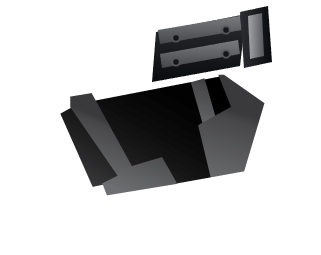
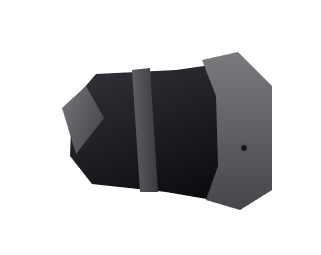
Modules menu as labelled groups like mode select; whole new torso per body
The Modules menu lists every group under its label in one list, as on the
mode screen; it scrolls to keep the selection (and its group's label) in
view, and LB / RB or left / right jump between groups. The bodies' torsos
are drawn whole now, each with its own silhouette in the original palette,
instead of add-ons over the stock torso, which stays untouched (Core,
Classic); the art sets the torso's size, the build only the limbs.

Changed region(s): [[0.1869, 0.0275, 0.8723, 0.8235]]

diff --git a/web/src/scenes/ModulesScene.ts b/web/src/scenes/ModulesScene.ts
@@ -11,16 +11,16 @@ import {
 } from '../game/Modules';
 import type { SpriterData } from '../spriter/Spriter';
 import { body, heading, HeadingText, NEON } from '../ui/Type';
-import { drawGlow, drawPlate, drawStrip, footer, frameTitle, kubeBackdrop, METAL_EDGE, PlateButton, shutter } from '../ui/Plate';
+import { drawPlate, drawStrip, footer, frameTitle, kubeBackdrop, PlateButton, shutter } from '../ui/Plate';
 import { uiSound } from '../audio/Sounds';
 import { MenuInput } from './MenuInput';
 
-const BTN_X = 260;
-const BTN_TOP = 238;
+const BTN_X = 280;
 const BTN_STEP = 44;
-/** The group tabs over the list. */
-const TAB_Y = 186;
-const TAB_W = 90;
+/** A group's label row above its modules (as on the mode screen). */
+const LABEL_STEP = 40;
+/** The window the list scrolls in. */
+const LIST = { top: 160, bottom: 700, left: 60, width: 460 };
 /** The panel describing the selected module, on the right. */
 const PANEL = { x: 500, y: 140, w: 732, h: 570 };
 /** The demo stage: its floor, and its ends (the Kubot runs between them). */
@@ -37,7 +37,7 @@ const BARS: { key: keyof BodyStats; label: string }[] = [
 ];
 /** How long the demo Kubot waits on the ground between jumps (ms). */
 const DEMO_REST = 450;
-/** Shoulders in the standard gamepad mapping: the previous / next group. */
+/** Shoulders in the standard gamepad mapping: the first module of the previous / next group. */
 const PAD = { L: 4, R: 5 } as const;
 
 /** Every group's modules, in menu order. */
@@ -50,21 +50,27 @@ const LISTS: Record<ModuleKind, ModuleInfo[]> = {
 
 /**
  * The Modules menu (title): Kubotz are modular, and their modules come in
- * groups (helmets, bodies, weapons, feet), one tab each. The group's modules
- * run down the left; the selected one is explained on the right. A body shows
+ * groups (helmets, bodies, weapons, feet), listed down the left under their
+ * labels as on the mode screen (the list scrolls; the selected module stays
+ * in view, with its group's label when it is the first of the group). The
+ * selected one is explained on the right. A body shows
  * its numbers as bars, a debug line naming whose numbers they are, and a
  * Kubot running and jumping with the body's own speeds and gravity (at half
  * size); the others show a Kubot wearing or holding the module. "Try it"
  * starts the sandbox with a base Kubot on only that module; quitting the
  * sandbox comes back here.
- * D-pad / stick up and down choose, left / right or LB / RB change the
- * group, A tries it, B goes back to the title.
+ * D-pad / stick up and down choose, left / right or LB / RB jump to the
+ * previous / next group, A tries it, B goes back to the title.
  */
 export class ModulesScene extends Phaser.Scene {
   private kind: ModuleKind = 'body';
   private selected = 0;
-  private items: PlateButton[] = [];
-  private tabs: { kind: ModuleKind; g: Phaser.GameObjects.Graphics; glow: Phaser.GameObjects.Graphics; label: Phaser.GameObjects.Text; x: number }[] = [];
+  /** Every module's button, in list order, with its group, index in the group and y in the list. */
+  private rows: { kind: ModuleKind; index: number; y: number; button: PlateButton }[] = [];
+  /** The first row of each group, and its label's y in the list. */
+  private labels = new Map<ModuleKind, number>();
+  private list!: Phaser.GameObjects.Container;
+  private listHeight = 0;
   private leaving = false;
   private menu!: MenuInput;
   private blurb!: Phaser.GameObjects.Text;
@@ -86,8 +92,8 @@ export class ModulesScene extends Phaser.Scene {
   constructor() { super('Modules'); }
 
   create(): void {
-    this.items = [];
-    this.tabs = [];
+    this.rows = [];
+    this.labels.clear();
     this.barLabels = [];
     this.leaving = false;
     this.padDown.clear();
@@ -123,25 +129,14 @@ export class ModulesScene extends Phaser.Scene {
     tryIt.setSelected(true);
     tryIt.on('pointerdown', () => this.tryModule());
 
-    // The group tabs.
-    const left = BTN_X - 170;
-    MODULE_KINDS.forEach((k, i) => {
-      const x = left + i * (TAB_W + 6);
-      const glow = this.add.graphics().setBlendMode(Phaser.BlendModes.ADD);
-      const g = this.add.graphics();
-      const label = this.add.text(x + TAB_W / 2, TAB_Y, k.label.toUpperCase(), body(14, { fontStyle: 'italic 800' })).setOrigin(0.5)
-        .setInteractive({ useHandCursor: true }).on('pointerdown', () => this.showKind(k.kind));
-      this.tabs.push({ kind: k.kind, g, glow, label, x });
-    });
-    this.add.text(left, TAB_Y - 30, 'LB / RB', body(11, { fontStyle: '700', color: '#6f93b3' }));
-
+    this.makeList();
     const saved = this.registry.get('modules') as { kind: ModuleKind; index: number } | undefined;
-    this.showKind(saved?.kind ?? 'body', saved?.index ?? 0);
+    this.select(saved?.kind ?? 'body', saved?.index ?? 0, true);
 
-    footer(this, ['D-pad / stick ↑↓ choose · ◀ ▶ or LB / RB group · A (Enter) try it in the sandbox · B (Esc) back']);
+    footer(this, ['D-pad / stick ↑↓ choose · ◀ ▶ or LB / RB previous / next group · A (Enter) try it in the sandbox · B (Esc) back']);
     this.menu = new MenuInput({
       move: (dx, dy) => {
-        if (dy) this.select((this.selected + dy + this.list.length) % this.list.length);
+        if (dy) this.step(dy);
         else if (dx) this.stepKind(dx);
       },
       confirm: () => this.tryModule(),
@@ -154,48 +149,81 @@ export class ModulesScene extends Phaser.Scene {
     kb.on('keydown-E', () => this.stepKind(1));
   }
 
-  private get list(): ModuleInfo[] { return LISTS[this.kind]; }
-  private get module(): ModuleInfo { return this.list[this.selected]; }
-  /** The selected body, when the group is the bodies. */
+  private get module(): ModuleInfo { return LISTS[this.kind][this.selected]; }
+  /** The selected body, when it is a body. */
   private get bodyModule(): BodyModule | null { return this.kind === 'body' ? this.module as BodyModule : null; }
 
+  /** Every group under its label, in one list masked to the left column (it scrolls). */
+  private makeList(): void {
+    this.list = this.add.container(0, LIST.top);
+    let y = 0;
+    for (const k of MODULE_KINDS) {
+      this.labels.set(k.kind, y);
+      this.list.add(this.add.text(BTN_X - 190, y + 22, k.label.toUpperCase().split('').join(' '), body(13, { fontStyle: '700', color: '#9fc4e4' })).setOrigin(0, 0.5));
+      y += LABEL_STEP;
+      LISTS[k.kind].forEach((m, index) => {
+        const button = new PlateButton(this, BTN_X, y + BTN_STEP / 2, 360, 38, m.name, { size: 21 });
+        // (Buttons scrolled out of the window still get the pointer: ignore them.)
+        button.on('pointerover', () => { if (this.inView(button)) this.select(k.kind, index); });
+        button.on('pointerdown', () => { if (this.inView(button)) { this.select(k.kind, index); this.tryModule(); } });
+        this.list.add(button);
+        this.rows.push({ kind: k.kind, index, y, button });
+        y += BTN_STEP;
+      });
+    }
+    this.listHeight = y;
+    const shape = this.make.graphics({}).fillRect(LIST.left, LIST.top, LIST.width, LIST.bottom - LIST.top);
+    this.list.setMask(shape.createGeometryMask());
+    this.input.on('wheel', (_p: unknown, _o: unknown, _dx: number, dy: number) => { if (!this.leaving) this.step(Math.sign(dy)); });
+  }
+
+  private inView(b: PlateButton): boolean {
+    const y = this.list.y + b.y;
+    return y > LIST.top && y < LIST.bottom;
+  }
+
+  /** Up / down through the whole list, across groups (wraps round). */
+  private step(d: number): void {
+    const at = this.rows.findIndex((r) => r.kind === this.kind && r.index === this.selected);
+    const r = this.rows[(at + d + this.rows.length) % this.rows.length];
+    this.select(r.kind, r.index);
+  }
+
+  /** The first module of the previous / next group. */
   private stepKind(d: number): void {
     const at = MODULE_KINDS.findIndex((k) => k.kind === this.kind);
-    this.showKind(MODULE_KINDS[(at + d + MODULE_KINDS.length) % MODULE_KINDS.length].kind);
-    uiSound(this, 'move');
+    this.select(MODULE_KINDS[(at + d + MODULE_KINDS.length) % MODULE_KINDS.length].kind, 0);
   }
 
-  /** A group's modules down the left, the first (or `index`) selected. */
-  private showKind(kind: ModuleKind, index = 0): void {
+  /** Scrolls so the selected row shows, with its group's label when it is the group's first. */
+  private scrollTo(kind: ModuleKind, index: number, instant: boolean): void {
+    const row = this.rows.find((r) => r.kind === kind && r.index === index)!;
+    const top = index === 0 ? this.labels.get(kind)! : row.y;
+    const bottom = row.y + BTN_STEP;
+    const view = LIST.bottom - LIST.top;
+    let scroll = LIST.top - this.list.y; // the list's y showing at the window's top
+    if (top < scroll) scroll = top;
+    else if (bottom > scroll + view) scroll = bottom - view;
+    scroll = Phaser.Math.Clamp(scroll, 0, Math.max(0, this.listHeight - view));
+    this.tweens.killTweensOf(this.list);
+    if (instant) this.list.y = LIST.top - scroll;
+    else this.tweens.add({ targets: this.list, y: LIST.top - scroll, duration: 140, ease: 'Quad.out' });
+  }
+
+  private select(kind: ModuleKind, i: number, instant = false): void {
+    i = Phaser.Math.Clamp(i, 0, LISTS[kind].length - 1);
+    if (kind === this.kind && i === this.selected && !instant) return;
+    const kindChanged = kind !== this.kind || instant;
     this.kind = kind;
-    for (const b of this.items) b.destroy();
-    this.items = this.list.map((m, i) => {
-      const b = new PlateButton(this, BTN_X, BTN_TOP + i * BTN_STEP, 340, 38, m.name, { size: 21 });
-      b.on('pointerover', () => this.select(i));
-      b.on('pointerdown', () => { this.select(i); this.tryModule(); });
-      return b;
-    });
-    for (const t of this.tabs) {
-      const on = t.kind === kind;
-      t.g.clear();
-      t.glow.clear();
-      if (on) drawGlow(t.glow, t.x, TAB_Y - 16, TAB_W, 32, { cut: 8 });
-      drawPlate(t.g, t.x, TAB_Y - 16, TAB_W, 32, { cut: 8, alpha: on ? 0.95 : 0.6, edge: on ? NEON : METAL_EDGE });
-      t.label.setColor(on ? '#bfe9ff' : '#8fb6d8');
-    }
-    this.blurb.setText(MODULE_KINDS.find((k) => k.kind === kind)!.blurb);
-    const isBody = kind === 'body';
-    for (const o of [this.inspired, this.debug, this.bars, ...this.barLabels]) o.setVisible(isBody);
-    this.selected = -1;
-    this.select(Math.min(index, this.list.length - 1));
-  }
-
-  private select(i: number): void {
-    if (i === this.selected) return;
     this.selected = i;
-    this.items.forEach((t, j) => t.setSelected(j === i));
+    for (const r of this.rows) r.button.setSelected(r.kind === kind && r.index === i);
+    this.scrollTo(kind, i, instant);
+    if (kindChanged) {
+      this.blurb.setText(MODULE_KINDS.find((k) => k.kind === kind)!.blurb);
+      for (const o of [this.inspired, this.debug, this.bars, ...this.barLabels]) o.setVisible(kind === 'body');
+    }
     const m = this.module;
-    this.registry.set('modules', { kind: this.kind, index: i });
+    this.registry.set('modules', { kind, index: i });
     this.title.setText(m.name);
     this.tagline.setText(m.tagline);
     this.details.setText(m.details.map((d) => `▸  ${d}`).join('\n'));
@@ -227,7 +255,7 @@ export class ModulesScene extends Phaser.Scene {
     else this.standStill(dt);
   }
 
-  /** LB / RB on any pad: the previous / next group. */
+  /** LB / RB on any pad: the first module of the previous / next group. */
   private pollShoulders(): void {
     for (const p of this.input.gamepad?.gamepads ?? []) {
       if (!p?.connected) continue;

diff --git a/web/tools/bodies/variants.ts b/web/tools/bodies/variants.ts
@@ -26,45 +26,58 @@ const black = (p: Pt[], dir = 60) => steel(p, { from: '#2c2e33', to: '#0a0b0e', 
 const bolt = (x: number, y: number, r = 4.5) =>
   `<circle cx="${x}" cy="${y}" r="${r}" fill="#55565a"/><circle cx="${x}" cy="${y}" r="${r * 0.62}" fill="#141518"/>`;
 
+/**
+ * Each body module's torso, drawn whole (not over the original): its own
+ * silhouette, still covering the joints where the original sits (neck about
+ * x 20-40, front shoulder about (104, 96), hips x 170-205 across y 60-125).
+ */
 export const VARIANTS: Record<string, Variant> = {
-  // Heavy armour: a thick slab down the back, a chest plate and a shoulder guard, bolted on.
-  bulwark: {
-    back: black([[16, 50], [168, 16], [180, -30], [20, 6]], 80)
-      + steel([[24, 4], [176, -26], [180, -14], [26, 16]], { dir: 100 })
-      + steel([[30, 26], [170, -2], [172, 6], [32, 34]], { from: '#5c5d61', to: '#3a3b3f', dir: 100 }),
-    front: steel([[44, 116], [190, 92], [200, 132], [56, 166]], { from: '#808184', to: '#404145', dir: 80 })
-      + black([[60, 146], [188, 122], [192, 134], [64, 158]], 0)
-      + bolt(80, 136) + bolt(172, 114) + bolt(120, 128, 3.5)
-      + steel([[-6, 54], [26, 22], [42, 66], [8, 104]], { dir: 20 }) + bolt(18, 62, 4),
-  },
-  // Gliding fins folded along the back, swept towards the hips.
-  glider: {
-    back: black([[40, 40], [124, 22], [186, -40], [146, -48]], 120)
-      + steel([[40, 40], [54, 37], [154, -46], [146, -48]], { from: '#9a9b9e', to: '#5a5b5f', dir: 0 })
-      + black([[112, 24], [176, 12], [216, -30], [186, -38]], 120)
-      + steel([[112, 24], [126, 21], [194, -36], [186, -38]], { from: '#9a9b9e', to: '#5a5b5f', dir: 0 }),
-    front: steel([[118, 112], [164, 104], [166, 113], [120, 121]], { dir: 0 })
-      + steel([[116, 98], [162, 90], [164, 99], [118, 107]], { dir: 0 }),
-  },
-  // Streamlined: a long spoiler along the back, and racing stripes across the chest.
-  sprinter: {
-    back: black([[26, 42], [168, 16], [226, -22], [204, -32], [30, 16]], 100)
-      + steel([[34, 18], [204, -30], [214, -26], [40, 28]], { from: '#9a9b9e', to: '#5a5b5f', dir: 0 }),
-    front: steel([[70, 44], [92, 40], [140, 128], [118, 132]], { from: '#7a7b7e', to: '#56575b', dir: 0 })
-      + steel([[98, 39], [110, 37], [158, 125], [146, 127]], { from: '#7a7b7e', to: '#56575b', dir: 0 }),
-  },
-  // A jump pack: two thrusters on the back by the hips.
-  hopper: {
-    back: black([[96, 26], [184, 10], [190, -42], [100, -24]], 90)
-      + steel([[104, -2], [182, -16], [184, -2], [106, 12]], { dir: 90 })
-      + steel([[102, -26], [184, -40], [186, -26], [104, -12]], { dir: 90 })
-      + black([[184, -44], [212, -50], [216, 6], [188, 12]], 0)
-      + steel([[192, -40], [206, -43], [208, 0], [194, 3]], { from: '#a4a5a8', to: '#55565a', dir: 0 }),
-    front: bolt(120, 6) + bolt(170, -2) + bolt(120, -18) + bolt(170, -26),
-  },
-  // Sharp and light: a chevron plate on the chest, a fin at the neck.
+  // Lean and aggressive: a sharp chest tapering to narrow hips, a blade-like plate across the chest.
   striker: {
-    back: steel([[16, 44], [62, 32], [30, -10]], { from: '#86878a', to: '#4a4b4f', dir: 135 }),
-    front: steel([[78, 132], [116, 92], [168, 118], [160, 124], [118, 102], [90, 134]], { from: '#86878a', to: '#4c4d51', dir: 70 }),
+    hideTorso: true,
+    back: '',
+    front: black([[14, 34], [64, 6], [130, 22], [196, 48], [206, 70], [200, 116], [150, 124], [70, 140], [18, 116]], 55)
+      + steel([[4, 40], [34, 22], [52, 58], [22, 96]], { from: '#6e6f72', to: '#47484c', dir: 30 })
+      + steel([[96, 96], [150, 80], [170, 124], [118, 134]], { from: '#7c7d80', to: '#4a4b4f', dir: 70 })
+      + steel([[172, 50], [208, 64], [202, 118], [176, 120]], { from: '#76777a', to: '#47484c', dir: 0 }),
+  },
+  // Compact, with heavy hips for the jumps: a wide skirt plate, a rib across.
+  hopper: {
+    hideTorso: true,
+    back: '',
+    front: black([[16, 46], [40, 18], [120, 14], [176, 6], [212, 34], [212, 128], [180, 148], [110, 136], [36, 128], [14, 100]], 60)
+      + steel([[6, 52], [30, 30], [48, 62], [20, 98]], { from: '#6e6f72', to: '#47484c', dir: 30 })
+      + steel([[76, 14], [94, 12], [102, 136], [84, 136]], { from: '#5e5f63', to: '#3a3b3f', dir: 0 })
+      + steel([[146, 4], [182, -4], [216, 30], [216, 134], [184, 154], [150, 144], [162, 110], [160, 40]], { from: '#7a7b7e', to: '#45464a', dir: 90 })
+      + bolt(188, 92),
+  },
+  // A long wedge leaning into the run: flat back with a spine plate, the chest pushed forward.
+  sprinter: {
+    hideTorso: true,
+    back: '',
+    front: black([[12, 28], [196, 12], [212, 50], [204, 118], [152, 122], [70, 152], [18, 122]], 70)
+      + steel([[20, 26], [196, 12], [200, 24], [110, 32], [24, 42]], { from: '#86878a', to: '#55565a', dir: 0 })
+      + steel([[40, 112], [110, 94], [150, 122], [72, 150]], { from: '#7c7d80', to: '#4a4b4f', dir: 70 })
+      + steel([[180, 16], [212, 50], [204, 118], [184, 120]], { from: '#6e6f73', to: '#424347', dir: 0 }),
+  },
+  // Slim and long: a narrow frame between two slanted side panels.
+  glider: {
+    hideTorso: true,
+    back: '',
+    front: black([[8, 48], [32, 30], [188, 34], [210, 50], [208, 110], [188, 116], [32, 112], [8, 92]], 60)
+      + steel([[34, 30], [150, 33], [140, 46], [40, 44]], { from: '#8a8b8e', to: '#55565a', dir: 0 })
+      + steel([[40, 100], [140, 100], [150, 113], [32, 112]], { from: '#8a8b8e', to: '#55565a', dir: 0 })
+      + steel([[176, 34], [210, 50], [208, 110], [178, 116]], { from: '#6e6f73', to: '#424347', dir: 0 })
+      + bolt(96, 72, 4),
+  },
+  // Heavy armour all round: a big block, thick plates on the back, the chest and the shoulder.
+  bulwark: {
+    hideTorso: true,
+    back: '',
+    front: black([[0, 14], [28, -10], [186, -14], [214, 10], [214, 140], [190, 160], [28, 160], [0, 132]], 60)
+      + steel([[28, -10], [186, -14], [214, 10], [150, 18], [40, 16]], { from: '#86878a', to: '#4a4b4f', dir: 90 })
+      + steel([[10, 120], [150, 110], [214, 132], [214, 140], [190, 160], [28, 160]], { from: '#808184', to: '#404145', dir: 90 })
+      + steel([[0, 30], [40, 14], [58, 80], [10, 112]], { from: '#7a7b7e', to: '#45464a', dir: 30 })
+      + bolt(26, 54) + bolt(190, 146) + bolt(60, 146) + bolt(176, 0),
   },
 };

diff --git a/web/src/game/Modules.ts b/web/src/game/Modules.ts
@@ -112,27 +112,27 @@ export const BODIES: Record<string, BodyModule> = {
   striker: {
     id: 'striker', look: 'body_striker', name: 'Striker', tagline: 'Light and sharp: always first to the fight.',
     details: ['Fast run and dash', 'Lower jumps than the Core', 'Light: flies a little further when hit'],
-    inspiredBy: 'Fox', debug: 'Fox', feel: FEELS.fox, knockback: 1.08, build: { torso: 0.92, arms: 0.86, legs: 0.88 },
+    inspiredBy: 'Fox', debug: 'Fox', feel: FEELS.fox, knockback: 1.08, build: { torso: 1, arms: 0.86, legs: 0.88 },
   },
   hopper: {
     id: 'hopper', look: 'body_hopper', name: 'Hopper', tagline: 'Big legs, long jumps, a slower run.',
     details: ['Jumps as high as the Core, and hangs longer', 'The best air control', 'Floatier falls, slower run'],
-    inspiredBy: 'Falco', debug: 'Falco', feel: FEELS.falco, knockback: 1.03, build: { torso: 0.95, arms: 0.92, legs: 1.22 },
+    inspiredBy: 'Falco', debug: 'Falco', feel: FEELS.falco, knockback: 1.03, build: { torso: 1, arms: 0.92, legs: 1.22 },
   },
   sprinter: {
     id: 'sprinter', look: 'body_sprinter', name: 'Sprinter', tagline: 'The fastest run; commits to every jump.',
     details: ['The fastest run of all', 'Slow walk, slow to get going', 'Wide drift in the air, low jumps'],
-    inspiredBy: 'Captain Falcon', debug: 'Captain Falcon', feel: FEELS.falcon, knockback: 0.97, build: { torso: 1.08, arms: 1.06, legs: 1.24 },
+    inspiredBy: 'Captain Falcon', debug: 'Captain Falcon', feel: FEELS.falcon, knockback: 0.97, build: { torso: 1, arms: 1.06, legs: 1.24 },
   },
   glider: {
     id: 'glider', look: 'body_glider', name: 'Glider', tagline: 'Floats down slowly and hangs in the air.',
     details: ['Very low gravity: long, floaty jumps', 'Slow falls, slow to land', 'Easy to recover, easy to juggle'],
-    inspiredBy: 'Samus', debug: 'Samus', feel: FEELS.samus, knockback: 0.95, build: { torso: 0.88, arms: 0.8, legs: 0.82 },
+    inspiredBy: 'Samus', debug: 'Samus', feel: FEELS.samus, knockback: 0.95, build: { torso: 1, arms: 0.8, legs: 0.82 },
   },
   bulwark: {
     id: 'bulwark', look: 'body_bulwark', name: 'Bulwark', tagline: 'Heavy plating: slow, but hard to send flying.',
     details: ['Slow run and air speed', 'Low jumps, heavy falls', 'Heavy: flies much less far when hit'],
-    inspiredBy: 'A heavyweight of its own', debug: 'custom heavy (no Ultimate fighter)', feel: BULWARK, knockback: 0.82, build: { torso: 1.25, arms: 1.35, legs: 1.35 },
+    inspiredBy: 'A heavyweight of its own', debug: 'custom heavy (no Ultimate fighter)', feel: BULWARK, knockback: 0.82, build: { torso: 1, arms: 1.35, legs: 1.35 },
   },
   classic: {
     id: 'classic', name: 'Classic', tagline: 'The 2015 Kubot: a heavy fall, a fast drift.',
